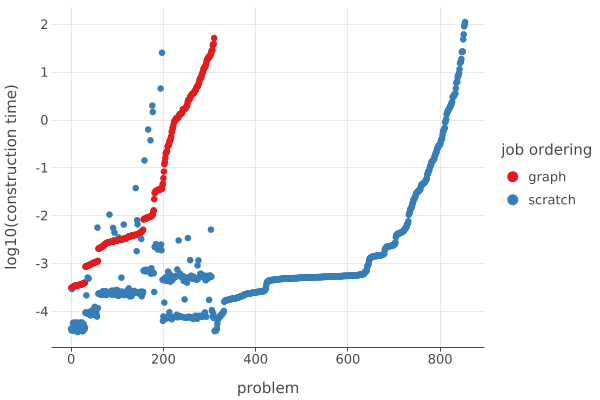
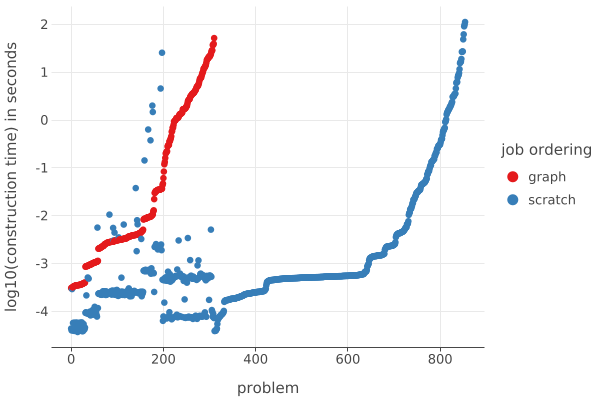
fix captions

Changed region(s): [[0.0, 0.09, 0.03, 0.78]]

diff --git a/src/main/kotlin/experiments/reconfiguration/ReconfigurationQuery2.kt b/src/main/kotlin/experiments/reconfiguration/ReconfigurationQuery2.kt
@@ -228,6 +228,7 @@ fun main() {
 //			y("time")
 //			color("job ordering")
 //			size = 2.5
+//			y.axis.name = "time (seconds)"
 //		}
 //	}.save("v2/path-type time.png")
 //
@@ -235,6 +236,7 @@ fun main() {
 //		points {
 //			x("problem")
 //			y("time")
+//			y.axis.name = "time (seconds)"
 //			color("method")
 //			size = 2.5
 //		}
@@ -244,6 +246,7 @@ fun main() {
 //		points {
 //			x("problem")
 //			y("time")
+//			y.axis.name = "time (seconds)"
 //			color("method")
 //			size = 2.5
 //		}
@@ -253,6 +256,7 @@ fun main() {
 //		points {
 //			x("problem")
 //			y("time")
+//			y.axis.name = "time (seconds)"
 //			color("method")
 //			size = 2.5
 //		}
@@ -273,9 +277,9 @@ fun main() {
 //	cutData(true) { it.config.isBase || it.config.numJobs != 1000 }.groupBy("method").plot {
 //		boxplot("#jobs", "time")
 //	}.save("v2/cut-method jobs time.png")
-	cutData(true, applyCandidateFilter = false) { it.config.isBase || it.config.numJobs != 1000 }.groupBy("precedence?").plot {
-		countPlot("#jobs")
-	}.save("v2/cut-method jobs precedence finish.png")
+//	cutData(true, applyCandidateFilter = false) { it.config.isBase || it.config.numJobs != 1000 }.groupBy("precedence?").plot {
+//		countPlot("#jobs")
+//	}.save("v2/cut-method jobs precedence finish.png")
 
 //	pathData(false) { it.config.isBase || it.config.numJobs != 1000 }.groupBy("job ordering").plot {
 //		boxplot("#jobs", "#constraints")
@@ -355,6 +359,7 @@ fun main() {
 //		points {
 //			x("problem")
 //			y("time")
+//			y.axis.name = "time (seconds)"
 //			color("method")
 //			size = 2.5
 //		}
@@ -382,11 +387,12 @@ fun main() {
 //		points {
 //			x("problem")
 //			y("time")
+//			y.axis.name = "time (seconds)"
 //			color("method")
 //			size = 2.5
 //		}
 //	}.save("v2/minimization-method instant final time.png")
-
+//
 //	minimizationData(false, listOf(MinimizationMethod.Random, MinimizationMethod.Tail)) { it.cutMethod == CutMethod.Instant }.plot {
 //		points {
 //			x("problem")
@@ -400,6 +406,7 @@ fun main() {
 //		points {
 //			x("problem")
 //			y("time")
+//			y.axis.name = "time (seconds)"
 //			color("job ordering")
 //			size = 2.5
 //		}
@@ -437,7 +444,7 @@ fun main() {
 //		}
 //	}.save("v2/path-type rating vs time.png")
 
-//	run {
+	run {
 //		val sharedResults = results.filter { it.graphPath != null && it.scratchPath != null }
 //		val data = dataFrameOf(
 //			"graph" to sharedResults.map { it.graphPath!!.pathConstructionTime },
@@ -446,6 +453,7 @@ fun main() {
 //		data.plot {
 //			boxplot("job ordering", "construction time") {
 //				y.axis.min = 0
+//				y.axis.name = "construction time (seconds)"
 //			}
 //		}.save("v2/path-type construction time.png")
 //		data.plot {
@@ -454,8 +462,8 @@ fun main() {
 //				y.axis.max = 5
 //			}
 //		}.save("v2/path-type construction time zoomed.png")
-//	}
-//	run {
+	}
+	run {
 //		val trials = results.flatMap { problem -> problem.trials.filter {
 //			it.cutMethod == CutMethod.Instant &&
 //					it.minimizationMethod == MinimizationMethod.Random &&
@@ -471,12 +479,16 @@ fun main() {
 //			boxplot("#jobs", "#explorations")
 //		}.save("v2/jobs explorations.png")
 //		data.plot {
-//			boxplot("#jobs", "avg exploration time")
+//			boxplot("#jobs", "avg exploration time") {
+//				y.axis.name = "average exploration time (seconds)"
+//			}
 //		}.save("v2/jobs exploration time.png")
 //		data.plot {
-//			boxplot("#jobs", "log10(avg exploration time)")
+//			boxplot("#jobs", "log10(avg exploration time)") {
+//				y.axis.name = "log10(avg exploration time) in seconds"
+//			}
 //		}.save("v2/jobs log exploration time.png")
-//	}
+	}
 //
 //	dataFrameOf(
 //		"construction time" to results.mapNotNull { it.scratchPath }.map { it.pathConstructionTime }
@@ -510,6 +522,7 @@ fun main() {
 //			points {
 //				x("problem")
 //				y("construction time")
+//				y.axis.name = "construction time (seconds)"
 //				color("job ordering")
 //			}
 //		}.save("v2/path-type construction time.png")
@@ -522,6 +535,7 @@ fun main() {
 //			points {
 //				x("problem")
 //				y("log10(construction time)")
+//				y.axis.name = "log10(construction time) in seconds"
 //				color("job ordering")
 //			}
 //		}.save("v2/path-type construction log time.png")

diff --git a/src/main/kotlin/experiments/reconfiguration/ReconfigurationQuery.kt b/src/main/kotlin/experiments/reconfiguration/ReconfigurationQuery.kt
@@ -80,7 +80,7 @@ fun mainResults() {
 //
 //	}
 //
-//	run {
+	run {
 //		plot {
 //			countPlot(results.flatMap { problem ->
 //				val output = mutableListOf<String>()
@@ -104,7 +104,7 @@ fun mainResults() {
 //				output
 //			})
 //		}.save("cut-method finish.png")
-//
+
 //		plot {
 //			countPlot(results.flatMap { problem ->
 //				val output = mutableListOf<String>()
@@ -116,7 +116,7 @@ fun mainResults() {
 //				output
 //			})
 //		}.save("minimization-method finish.png")
-//	}
+	}
 //
 //	// Compare PathType and MinimizationMethod success counts
 //	run {

diff --git a/src/main/kotlin/experiments/reconfiguration/ReconfigurationResult.kt b/src/main/kotlin/experiments/reconfiguration/ReconfigurationResult.kt
@@ -176,12 +176,12 @@ enum class CutMethod(val filePart: String, private val displayName: String) {
 	override fun toString() = displayName
 }
 
-enum class MinimizationMethod {
-	Random,
-	Tail,
-	Head;
+enum class MinimizationMethod(private val plotName: String) {
+	Random("random"),
+	Tail("late"),
+	Head("early");
 
-	override fun toString() = name.lowercase(Locale.ROOT)
+	override fun toString() = plotName
 }
 
 class ReconfigurationConfig(
